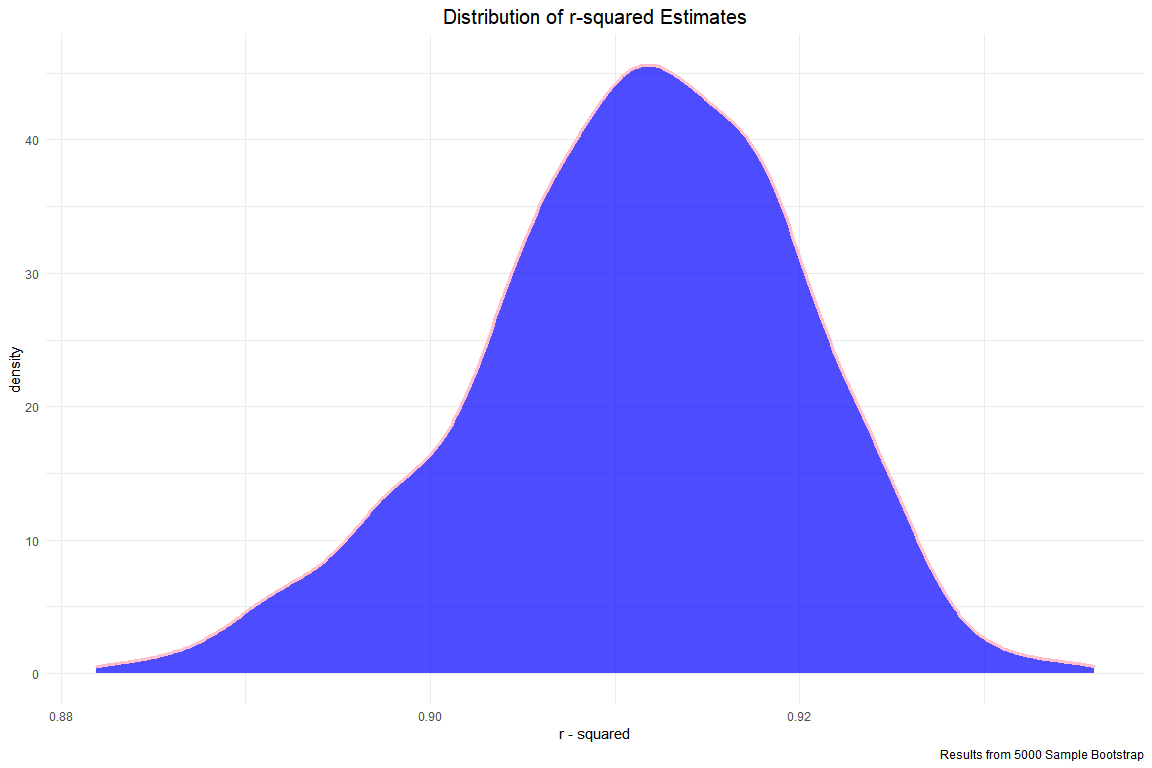
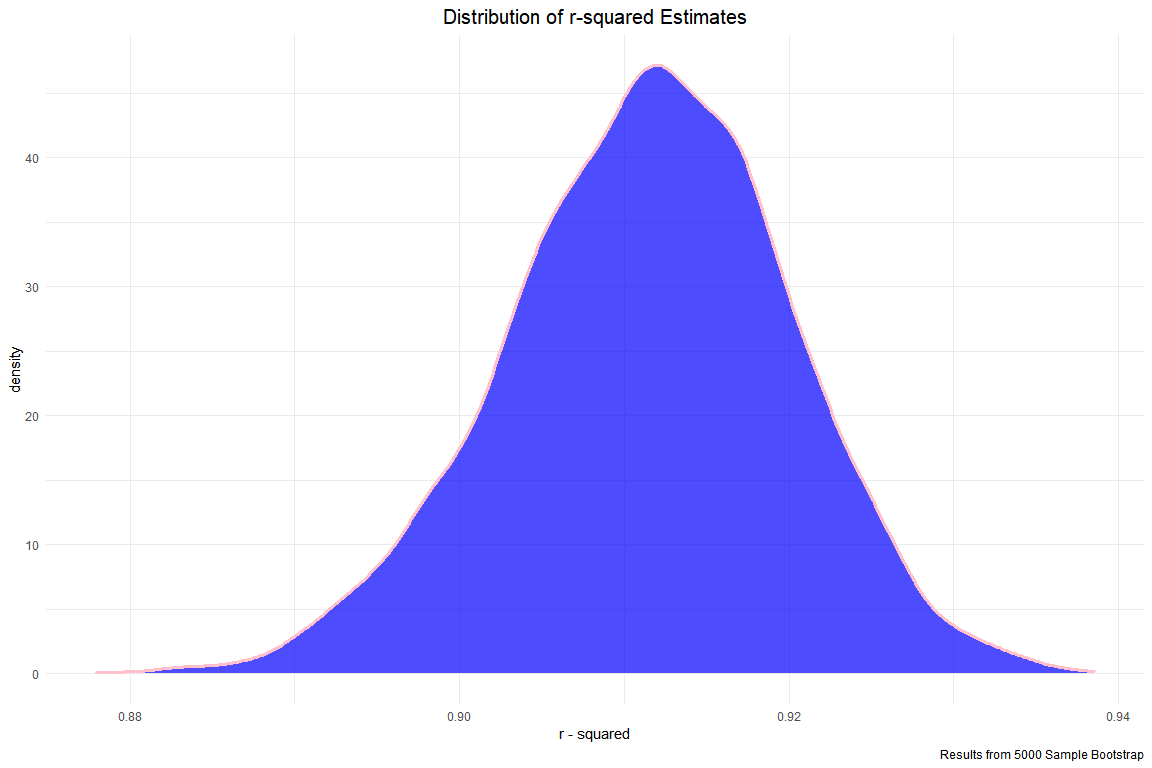
Refinements of Problem 2 and 3.

diff --git a/Assignment-6.md b/Assignment-6.md
@@ -114,169 +114,7 @@ criteria.
 
 ``` r
 lm_proposed = lm(bwt ~., data = birthweight)
-step_lm=step(lm_proposed, direction = 'both')
-```
-
-    ## Start:  AIC=48717.83
-    ## bwt ~ babysex + bhead + blength + delwt + fincome + frace + gaweeks + 
-    ##     malform + menarche + mheight + momage + mrace + parity + 
-    ##     pnumlbw + pnumsga + ppbmi + ppwt + smoken + wtgain
-    ## 
-    ## 
-    ## Step:  AIC=48717.83
-    ## bwt ~ babysex + bhead + blength + delwt + fincome + frace + gaweeks + 
-    ##     malform + menarche + mheight + momage + mrace + parity + 
-    ##     pnumlbw + pnumsga + ppbmi + ppwt + smoken
-    ## 
-    ## 
-    ## Step:  AIC=48717.83
-    ## bwt ~ babysex + bhead + blength + delwt + fincome + frace + gaweeks + 
-    ##     malform + menarche + mheight + momage + mrace + parity + 
-    ##     pnumlbw + ppbmi + ppwt + smoken
-    ## 
-    ## 
-    ## Step:  AIC=48717.83
-    ## bwt ~ babysex + bhead + blength + delwt + fincome + frace + gaweeks + 
-    ##     malform + menarche + mheight + momage + mrace + parity + 
-    ##     ppbmi + ppwt + smoken
-    ## 
-    ##            Df Sum of Sq       RSS   AIC
-    ## - frace     4    124365 320848704 48712
-    ## - malform   1      1419 320725757 48716
-    ## - ppbmi     1      6346 320730684 48716
-    ## - momage    1     28661 320752999 48716
-    ## - mheight   1     66886 320791224 48717
-    ## - menarche  1    111679 320836018 48717
-    ## - ppwt      1    131132 320855470 48718
-    ## <none>                  320724338 48718
-    ## - fincome   1    193454 320917792 48718
-    ## - parity    1    413584 321137922 48721
-    ## - mrace     3    868321 321592659 48724
-    ## - babysex   1    853796 321578134 48727
-    ## - gaweeks   1   4611823 325336161 48778
-    ## - smoken    1   5076393 325800732 48784
-    ## - delwt     1   8008891 328733230 48823
-    ## - blength   1 102050296 422774634 49915
-    ## - bhead     1 106535716 427260054 49961
-    ## 
-    ## Step:  AIC=48711.51
-    ## bwt ~ babysex + bhead + blength + delwt + fincome + gaweeks + 
-    ##     malform + menarche + mheight + momage + mrace + parity + 
-    ##     ppbmi + ppwt + smoken
-    ## 
-    ##            Df Sum of Sq       RSS   AIC
-    ## - malform   1      1447 320850151 48710
-    ## - ppbmi     1      6975 320855679 48710
-    ## - momage    1     28379 320877083 48710
-    ## - mheight   1     69502 320918206 48710
-    ## - menarche  1    115708 320964411 48711
-    ## - ppwt      1    133961 320982665 48711
-    ## <none>                  320848704 48712
-    ## - fincome   1    194405 321043108 48712
-    ## - parity    1    414687 321263390 48715
-    ## + frace     4    124365 320724338 48718
-    ## - babysex   1    852133 321700837 48721
-    ## - gaweeks   1   4625208 325473911 48772
-    ## - smoken    1   5036389 325885093 48777
-    ## - delwt     1   8013099 328861802 48817
-    ## - mrace     3  13540415 334389119 48885
-    ## - blength   1 101995688 422844392 49908
-    ## - bhead     1 106662962 427511666 49956
-    ## 
-    ## Step:  AIC=48709.53
-    ## bwt ~ babysex + bhead + blength + delwt + fincome + gaweeks + 
-    ##     menarche + mheight + momage + mrace + parity + ppbmi + ppwt + 
-    ##     smoken
-    ## 
-    ##            Df Sum of Sq       RSS   AIC
-    ## - ppbmi     1      6928 320857079 48708
-    ## - momage    1     28660 320878811 48708
-    ## - mheight   1     69320 320919470 48708
-    ## - menarche  1    116027 320966177 48709
-    ## - ppwt      1    133894 320984044 48709
-    ## <none>                  320850151 48710
-    ## - fincome   1    193784 321043934 48710
-    ## + malform   1      1447 320848704 48712
-    ## - parity    1    414482 321264633 48713
-    ## + frace     4    124393 320725757 48716
-    ## - babysex   1    851279 321701430 48719
-    ## - gaweeks   1   4624003 325474154 48770
-    ## - smoken    1   5035195 325885346 48775
-    ## - delwt     1   8029079 328879230 48815
-    ## - mrace     3  13553320 334403471 48883
-    ## - blength   1 102009225 422859375 49906
-    ## - bhead     1 106675331 427525481 49954
-    ## 
-    ## Step:  AIC=48707.63
-    ## bwt ~ babysex + bhead + blength + delwt + fincome + gaweeks + 
-    ##     menarche + mheight + momage + mrace + parity + ppwt + smoken
-    ## 
-    ##            Df Sum of Sq       RSS   AIC
-    ## - momage    1     29211 320886290 48706
-    ## - menarche  1    117635 320974714 48707
-    ## <none>                  320857079 48708
-    ## - fincome   1    195199 321052278 48708
-    ## + ppbmi     1      6928 320850151 48710
-    ## + malform   1      1400 320855679 48710
-    ## - parity    1    412984 321270064 48711
-    ## + frace     4    125020 320732060 48714
-    ## - babysex   1    850020 321707099 48717
-    ## - mheight   1   1078673 321935752 48720
-    ## - ppwt      1   2934023 323791103 48745
-    ## - gaweeks   1   4621504 325478583 48768
-    ## - smoken    1   5039368 325896447 48773
-    ## - delwt     1   8024939 328882018 48813
-    ## - mrace     3  13551444 334408523 48881
-    ## - blength   1 102018559 422875638 49904
-    ## - bhead     1 106821342 427678421 49953
-    ## 
-    ## Step:  AIC=48706.02
-    ## bwt ~ babysex + bhead + blength + delwt + fincome + gaweeks + 
-    ##     menarche + mheight + mrace + parity + ppwt + smoken
-    ## 
-    ##            Df Sum of Sq       RSS   AIC
-    ## - menarche  1    100121 320986412 48705
-    ## <none>                  320886290 48706
-    ## - fincome   1    240800 321127090 48707
-    ## + momage    1     29211 320857079 48708
-    ## + ppbmi     1      7479 320878811 48708
-    ## + malform   1      1678 320884612 48708
-    ## - parity    1    431433 321317724 48710
-    ## + frace     4    124743 320761547 48712
-    ## - babysex   1    841278 321727568 48715
-    ## - mheight   1   1076739 321963029 48719
-    ## - ppwt      1   2913653 323799943 48743
-    ## - gaweeks   1   4676469 325562760 48767
-    ## - smoken    1   5045104 325931394 48772
-    ## - delwt     1   8000672 328886962 48811
-    ## - mrace     3  14667730 335554021 48894
-    ## - blength   1 101990556 422876847 49902
-    ## - bhead     1 106864308 427750598 49952
-    ## 
-    ## Step:  AIC=48705.38
-    ## bwt ~ babysex + bhead + blength + delwt + fincome + gaweeks + 
-    ##     mheight + mrace + parity + ppwt + smoken
-    ## 
-    ##            Df Sum of Sq       RSS   AIC
-    ## <none>                  320986412 48705
-    ## + menarche  1    100121 320886290 48706
-    ## - fincome   1    245637 321232048 48707
-    ## + momage    1     11698 320974714 48707
-    ## + ppbmi     1      8823 320977589 48707
-    ## + malform   1      1884 320984528 48707
-    ## - parity    1    422770 321409181 48709
-    ## + frace     4    128726 320857686 48712
-    ## - babysex   1    846134 321832545 48715
-    ## - mheight   1   1012240 321998651 48717
-    ## - ppwt      1   2907049 323893461 48743
-    ## - gaweeks   1   4662501 325648912 48766
-    ## - smoken    1   5073849 326060260 48771
-    ## - delwt     1   8137459 329123871 48812
-    ## - mrace     3  14683609 335670021 48894
-    ## - blength   1 102191779 423178191 49903
-    ## - bhead     1 106779754 427766166 49950
-
-``` r
+step_lm=step(lm_proposed, direction = 'both', trace = FALSE)
 summary(step_lm)
 ```
 
@@ -312,11 +150,11 @@ summary(step_lm)
     ## Multiple R-squared:  0.7181, Adjusted R-squared:  0.7173 
     ## F-statistic: 848.1 on 13 and 4328 DF,  p-value: < 2.2e-16
 
-From the stepwise selection we get the best model with formula = bwt \~
-babysex + bhead + blength + delwt + fincome + gaweeks + mheight + mrace
-+ parity + ppwt + smoken, with adjusted r-squared value of 0.7173 and
-the p-value of overall F-test is smaller than 2.2e-16, which is
-statistically significant (less than 0.05).
+From the stepwise selection we get the best model: `bwt ~ babysex +
+bhead + blength + delwt + fincome + gaweeks + mheight + mrace + parity +
+ppwt + smoken` with adjusted r-squared value of 0.7173 and the p-value
+of overall F-test is smaller than 2.2e-16, which is statistically
+significant (less than 0.05).
 
 We draw a plot of residuals vs. fitted values.
 
@@ -399,7 +237,7 @@ weather_df =
 ``` r
 r2_data = 
 weather_df %>%
- modelr::bootstrap(n = 1000) %>%
+ modelr::bootstrap(n = 5000) %>%
  mutate(
    models = map(strap, ~lm(tmax ~ tmin, data = .x)),
    results_r2 = map(models, broom::glance)) %>%
@@ -438,7 +276,8 @@ r2_data %>%
 ```
 
 <img src="Assignment-6_files/figure-gfm/unnamed-chunk-11-1.png" width="90%" />
-The distribution of `r_hat^2` is roughly close to a normal distribution.
+
+The distribution of r-square is roughly close to a normal distribution.
 However, the distribution is a little skewed and there are some
 outliers.
 
@@ -455,7 +294,8 @@ log_data %>%
 ```
 
 <img src="Assignment-6_files/figure-gfm/unnamed-chunk-12-1.png" width="90%" />
-The distribution of `log(beta0_hat * beta1_hat)` is also roughly close
+
+The distribution of log(beta0\_hat \* beta1\_hat) is also roughly close
 to a normal distribution. Again, the distribution is a little skewed and
 there are some outliers.
 
@@ -463,17 +303,18 @@ We now identify the 2.5% and 97.5% quantiles to provide a 95% confidence
 interval for these two quantities.
 
 ``` r
-quantile(r2_data$r.squared, c(.025, .975))%>%
+rquant = quantile(r2_data$r.squared, c(.025, .975))%>%
   knitr::kable(col.name = c("R-Squared"), digits = 4)
+rquant
 ```
 
 |       | R-Squared |
 | :---- | --------: |
-| 2.5%  |    0.8919 |
-| 97.5% |    0.9262 |
+| 2.5%  |    0.8937 |
+| 97.5% |    0.9273 |
 
 From the above table, the 95% confidence interval for R-Squared is
-(0.8962, 0.9269).
+(0.8937, 0.9273).
 
 ``` r
 quantile(log_data$log_result,c(.025, .975))%>%
@@ -482,8 +323,8 @@ quantile(log_data$log_result,c(.025, .975))%>%
 
 |       | log(beta0\_hat \* beta1\_hat) |
 | :---- | ----------------------------: |
-| 2.5%  |                        1.9656 |
-| 97.5% |                        2.0590 |
+| 2.5%  |                        1.9648 |
+| 97.5% |                        2.0585 |
 
 From the above table, the 95% confidence interval for log(beta0\_hat \*
-beta1\_hat) is (1.9656, 2.059).
+beta1\_hat) is (1.9648, 2.0585).
